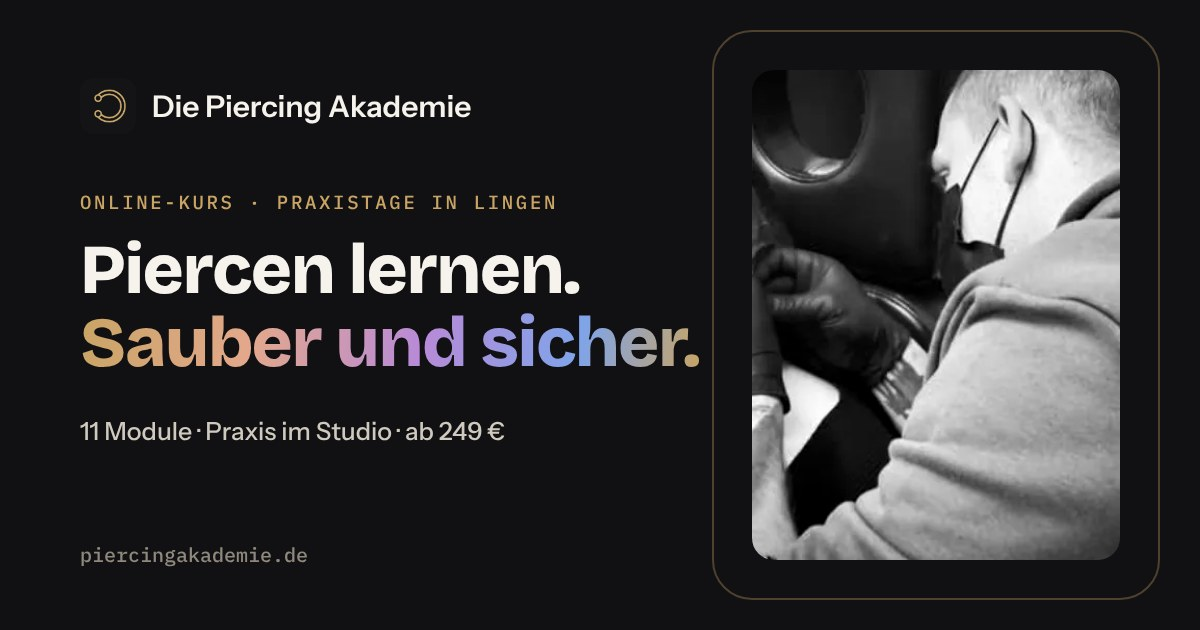
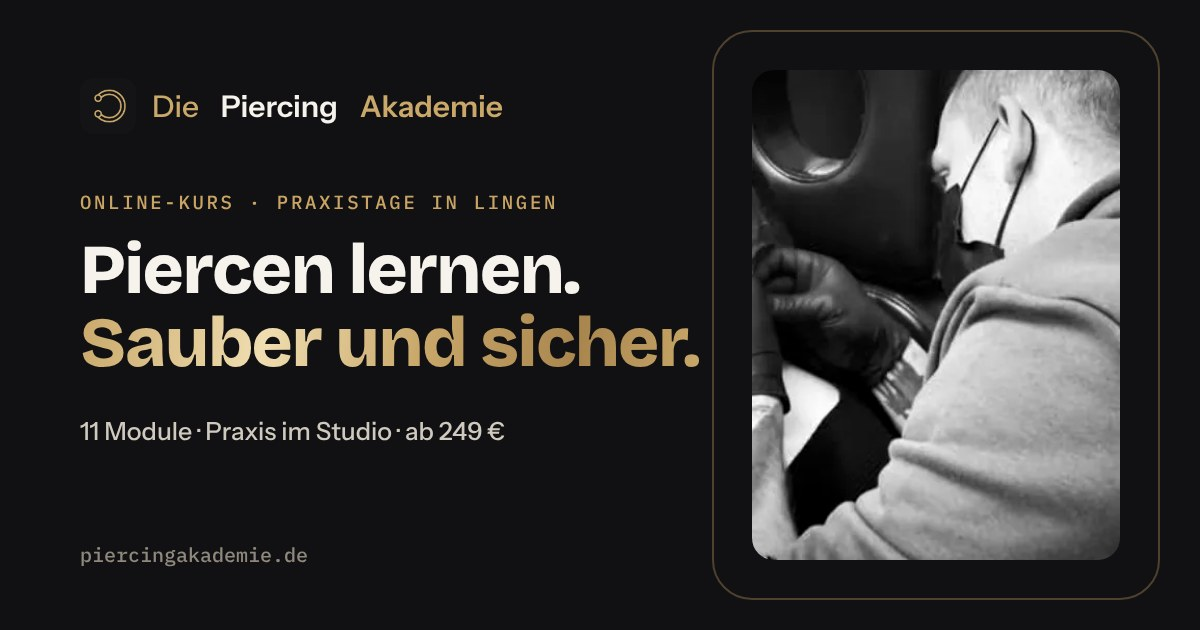
Nur noch Gold: bunten Farbverlauf entfernt, Schriftzug in Weiß und Gold
Der Verlauf „Titan“ (Ring am Hero-Foto, Überschrift, Linien, Rahmen,
Fortschrittsbalken) ist jetzt ein reiner Goldverlauf; blaue Lichtflecken
ebenfalls in Gold. Kopfzeile zeigt „Die Piercing Akademie“ mit „Die“ und
„Akademie“ in Gold wie im Auftakt-Schriftzug. Vorschaubild neu.

Claude-Session: https://claude.ai/code/session_01LfH8cq6D4HhundCD4VVHJz

Changed region(s): [[0.1233, 0.4825, 0.5858, 0.6032], [0.1233, 0.1508, 0.4317, 0.2111]]

diff --git a/assets/styles.css b/assets/styles.css
@@ -1,6 +1,6 @@
 /* Piercing Akademie – gemeinsames Stylesheet für alle Seiten.
    Gestaltung (Überarbeitung 25.10.2026): Schwarz, Elfenbein und Titan-Gold. Dunkle Bänder („Nacht“) für Einstieg,
-   Pakete und Anmeldung, helle Flächen für Inhalte. Der Farbverlauf „Titan“ erinnert an eloxiertes Titan und wird
+   Pakete und Anmeldung, helle Flächen für Inhalte. Der Farbverlauf „Titan“ ist ein reiner Goldverlauf (nur zwei Markenfarben: Anthrazit und Gold) und wird
    nur sparsam für Hervorhebungen genutzt. Kontraste: Text mindestens 4,5:1 (siehe PROJEKT-DOKUMENTATION.md). */
 
 /* Schriften: lokal eingebunden (kein Abruf bei Google, siehe datenschutz.html). Lizenz: SIL OFL 1.1, siehe fonts/LICENSE-*.txt */
@@ -31,7 +31,7 @@
   --night-muted:#A6A09A;
   --night-line:#2E2D33;
   --error:#A4231B;
-  --titan:linear-gradient(100deg,#C9A464 0%,#E3A88C 28%,#B88AD8 55%,#7FA4EA 80%,#C9A464 100%);
+  --titan:linear-gradient(100deg,#C9A86A 0%,#F0DDB0 30%,#C9A86A 55%,#A9864E 80%,#C9A86A 100%);
   --schatten:0 24px 48px -28px rgba(23,22,26,.45);
   --radius:14px;
   --f-display:"Bricolage Grotesque","Helvetica Neue",Arial,sans-serif;
@@ -105,6 +105,8 @@ header{display:flex;justify-content:space-between;align-items:center;gap:16px;pa
 .brand{font-family:var(--f-body);font-weight:600;font-size:1.2rem;text-decoration:none;display:flex;align-items:center;gap:10px;letter-spacing:-.01em}
 .brand img{width:36px;height:36px;border-radius:9px;display:block;box-shadow:0 0 0 1px rgba(201,168,106,.35)}
 .brand{white-space:nowrap}
+.brand .brand-die,.brand .brand-akz{color:var(--accent)}
+.brand .brand-die{font-weight:500}
 @media (max-width:420px){.brand{font-size:1.05rem;gap:8px}.brand img{width:32px;height:32px;border-radius:9px}}
 @media (max-width:350px){.brand{font-size:.92rem;gap:6px}.brand img{width:28px;height:28px;border-radius:8px}}
 nav{display:flex;gap:8px 24px;flex-wrap:wrap;align-items:center}
@@ -123,7 +125,7 @@ nav a[aria-current="page"]{color:var(--ink);font-weight:600}
   position:relative;isolation:isolate;
 }
 .nacht::before{content:"";position:absolute;inset:0;z-index:-1;pointer-events:none;
-  background:radial-gradient(60% 50% at 85% 10%,rgba(201,164,100,.16),transparent 70%),radial-gradient(40% 40% at 0% 100%,rgba(127,164,234,.10),transparent 70%)}
+  background:radial-gradient(60% 50% at 85% 10%,rgba(201,164,100,.16),transparent 70%),radial-gradient(40% 40% at 0% 100%,rgba(201,168,106,.06),transparent 70%)}
 .nacht nav a:hover{color:var(--ink)}
 
 /* Einstieg */
@@ -136,7 +138,7 @@ nav a[aria-current="page"]{color:var(--ink);font-weight:600}
 .hero-bild{position:relative;justify-self:end;width:min(100%,430px)}
 .hero-bild .foto{display:block;width:88%;margin-left:auto;aspect-ratio:354/473;object-fit:cover;border-radius:200px 200px var(--radius) var(--radius);filter:grayscale(1) contrast(1.05);
   border:1px solid transparent;background:var(--titan) border-box;padding:3px}
-.hero-bild .ring{position:absolute;z-index:1;right:0;top:18%;width:92px;height:92px;border-radius:50%;border:6px solid transparent;background:conic-gradient(from var(--winkel,0deg),#C9A464,#E3A88C,#B88AD8,#7FA4EA,#C9A464) border-box;-webkit-mask:linear-gradient(#000 0 0) padding-box exclude,linear-gradient(#000 0 0);mask:linear-gradient(#000 0 0) padding-box exclude,linear-gradient(#000 0 0)}
+.hero-bild .ring{position:absolute;z-index:1;right:0;top:18%;width:92px;height:92px;border-radius:50%;border:6px solid transparent;background:conic-gradient(from var(--winkel,0deg),#C9A86A,#F0DDB0,#A9864E,#E3C890,#C9A86A) border-box;-webkit-mask:linear-gradient(#000 0 0) padding-box exclude,linear-gradient(#000 0 0);mask:linear-gradient(#000 0 0) padding-box exclude,linear-gradient(#000 0 0)}
 .spec{background:var(--surface);border:1px solid var(--line);border-radius:var(--radius);padding:20px;box-shadow:var(--schatten)}
 .spec .label{display:flex;justify-content:space-between;gap:12px;flex-wrap:wrap}
 .spec .spec-title{font-family:var(--f-display);font-weight:600;line-height:1.08;margin:10px 0 4px;font-size:1.45rem}
@@ -216,7 +218,7 @@ details .body ul,details .body ol{margin:8px 0 0;padding-left:1.1em}
 .card{background:var(--surface);border:1px solid var(--line);border-radius:18px;padding:28px;display:flex;flex-direction:column;gap:18px;min-width:0;position:relative;
   transition:transform .35s cubic-bezier(.2,.7,.2,1),box-shadow .35s,border-color .35s}
 .card:hover{transform:translateY(-6px);box-shadow:0 30px 60px -30px rgba(0,0,0,.7)}
-.card.top{border:2px solid transparent;background:linear-gradient(var(--surface),var(--surface)) padding-box,conic-gradient(from var(--winkel,0deg),#C9A464,#E3A88C,#B88AD8,#7FA4EA,#C9A464) border-box}
+.card.top{border:2px solid transparent;background:linear-gradient(var(--surface),var(--surface)) padding-box,conic-gradient(from var(--winkel,0deg),#C9A86A,#F0DDB0,#A9864E,#E3C890,#C9A86A) border-box}
 .card .badge{position:absolute;top:-13px;left:28px;background:var(--gold);color:var(--gold-ink);font-family:var(--f-mono);font-size:.72rem;letter-spacing:.1em;text-transform:uppercase;padding:5px 12px;border-radius:999px;font-weight:500}
 .card h3{margin-top:6px;font-size:1.5rem}
 .card .price{font-family:var(--f-display);font-size:clamp(2.6rem,4vw,3.4rem);font-weight:800;line-height:1}
@@ -396,7 +398,7 @@ footer a{color:var(--muted)}
   .zahlen div:nth-child(3){padding-left:0}
   .zahlen div:nth-child(n+3){border-top:1px solid var(--line)}
   .weg{grid-template-columns:minmax(0,1fr);gap:28px}
-  .weg::before{left:27px;right:auto;top:28px;bottom:28px;width:2px;height:auto;background:linear-gradient(var(--gold),#7FA4EA);transform-origin:50% 0}
+  .weg::before{left:27px;right:auto;top:28px;bottom:28px;width:2px;height:auto;background:linear-gradient(var(--gold),#A9864E);transform-origin:50% 0}
   .weg li{padding:6px 0 0 76px;min-height:56px}
   .gal{grid-template-columns:repeat(2,minmax(0,1fr))}
   .pk{gap:28px}
@@ -583,7 +585,7 @@ footer nav[aria-label="Instagram"] a{color:var(--accent)}
 .auftakt-vorhang{position:absolute;left:0;right:0;height:50.5%;background:#0E0E11;transition:transform 1s cubic-bezier(.77,0,.18,1)}
 .auftakt-vorhang.oben{top:0}.auftakt-vorhang.unten{bottom:0}
 .auftakt-vorhang.oben::after{content:"";position:absolute;inset:0;background:radial-gradient(60% 80% at 50% 100%,rgba(201,164,100,.10),transparent 70%)}
-.auftakt-vorhang.unten::after{content:"";position:absolute;inset:0;background:radial-gradient(60% 80% at 50% 0%,rgba(127,164,234,.08),transparent 70%)}
+.auftakt-vorhang.unten::after{content:"";position:absolute;inset:0;background:radial-gradient(60% 80% at 50% 0%,rgba(201,168,106,.06),transparent 70%)}
 .auftakt-buehne{position:relative;display:grid;justify-items:center;gap:22px;transition:transform .9s cubic-bezier(.7,0,.2,1),opacity .6s ease}
 .auftakt-ring{overflow:visible;filter:drop-shadow(0 0 14px rgba(201,168,106,.18));animation:auftaktGlimmen 1.4s 1.3s ease-in-out both}
 @keyframes auftaktGlimmen{0%{filter:drop-shadow(0 0 8px rgba(201,168,106,.15))}50%{filter:drop-shadow(0 0 26px rgba(201,168,106,.4))}100%{filter:drop-shadow(0 0 14px rgba(201,168,106,.22))}}

diff --git a/kurs-prototyp/index.html b/kurs-prototyp/index.html
@@ -17,7 +17,7 @@
 <p class="k-banner" data-tr>Prototyp des Online-Kurses. Kein Login, keine Bezahlung; der Fortschritt wird nur in diesem Browser gespeichert. Inhalte nach dem Kursbuch „Die Piercing Akademie – Dein Weg zum Bodypiercer“.</p>
 <div class="wrap">
   <header>
-    <a class="brand" href="../index.html" data-website><img src="../assets/favicon.png" alt="" width="34" height="34">Die Piercing Akademie</a>
+    <a class="brand" href="../index.html" data-website><img src="../assets/favicon.png" alt="" width="34" height="34"><span class="brand-die">Die</span> Piercing <span class="brand-akz">Akademie</span></a>
     <nav aria-label="Seitennavigation" data-tr-aria>
       <a href="../online-kurs.html" data-website data-tr>Über den Online-Kurs</a>
       <a href="#uebersicht" data-tr>Kursübersicht</a>

diff --git a/en/online-kurs.html b/en/online-kurs.html
@@ -32,7 +32,7 @@
 <div class="nacht">
 <div class="wrap">
   <header>
-    <a class="brand" href="index.html"><img src="../assets/favicon.png" alt="" width="34" height="34">Die Piercing Akademie</a>
+    <a class="brand" href="index.html"><img src="../assets/favicon.png" alt="" width="34" height="34"><span class="brand-die">Die</span> Piercing <span class="brand-akz">Akademie</span></a>
     <nav aria-label="Site navigation">
       <a href="index.html#kurs">Course content</a>
       <a href="online-kurs.html" aria-current="page">Online course</a>

diff --git a/es/online-kurs.html b/es/online-kurs.html
@@ -32,7 +32,7 @@
 <div class="nacht">
 <div class="wrap">
   <header>
-    <a class="brand" href="index.html"><img src="../assets/favicon.png" alt="" width="34" height="34">Die Piercing Akademie</a>
+    <a class="brand" href="index.html"><img src="../assets/favicon.png" alt="" width="34" height="34"><span class="brand-die">Die</span> Piercing <span class="brand-akz">Akademie</span></a>
     <nav aria-label="Navegación del sitio">
       <a href="index.html#kurs">Contenido</a>
       <a href="online-kurs.html" aria-current="page">Curso online</a>

diff --git a/online-kurs.html b/online-kurs.html
@@ -32,7 +32,7 @@
 <div class="nacht">
 <div class="wrap">
   <header>
-    <a class="brand" href="index.html"><img src="assets/favicon.png" alt="" width="34" height="34">Die Piercing Akademie</a>
+    <a class="brand" href="index.html"><img src="assets/favicon.png" alt="" width="34" height="34"><span class="brand-die">Die</span> Piercing <span class="brand-akz">Akademie</span></a>
     <nav aria-label="Seitennavigation">
       <a href="index.html#kurs">Kursinhalt</a>
       <a href="online-kurs.html" aria-current="page">Online-Kurs</a>

diff --git a/en/agb.html b/en/agb.html
@@ -26,7 +26,7 @@
 <div class="nacht">
 <div class="wrap">
   <header>
-    <a class="brand" href="index.html"><img src="../assets/favicon.png" alt="" width="34" height="34">Die Piercing Akademie</a>
+    <a class="brand" href="index.html"><img src="../assets/favicon.png" alt="" width="34" height="34"><span class="brand-die">Die</span> Piercing <span class="brand-akz">Akademie</span></a>
     <nav aria-label="Site navigation">
       <a href="index.html#kurs">Course content</a>
       <a href="online-kurs.html">Online course</a>

diff --git a/en/bestellen.html b/en/bestellen.html
@@ -27,7 +27,7 @@
 <div class="nacht">
 <div class="wrap">
   <header>
-    <a class="brand" href="index.html"><img src="../assets/favicon.png" alt="" width="34" height="34">Die Piercing Akademie</a>
+    <a class="brand" href="index.html"><img src="../assets/favicon.png" alt="" width="34" height="34"><span class="brand-die">Die</span> Piercing <span class="brand-akz">Akademie</span></a>
     <nav aria-label="Site navigation">
       <a href="index.html#kurs">Course content</a>
       <a href="online-kurs.html">Online course</a>

diff --git a/en/danke.html b/en/danke.html
@@ -27,7 +27,7 @@
 <div class="nacht">
 <div class="wrap">
   <header>
-    <a class="brand" href="index.html"><img src="../assets/favicon.png" alt="" width="34" height="34">Die Piercing Akademie</a>
+    <a class="brand" href="index.html"><img src="../assets/favicon.png" alt="" width="34" height="34"><span class="brand-die">Die</span> Piercing <span class="brand-akz">Akademie</span></a>
     <nav aria-label="Site navigation">
       <a href="index.html#kurs">Course content</a>
       <a href="online-kurs.html">Online course</a>

diff --git a/en/datenschutz.html b/en/datenschutz.html
@@ -26,7 +26,7 @@
 <div class="nacht">
 <div class="wrap">
   <header>
-    <a class="brand" href="index.html"><img src="../assets/favicon.png" alt="" width="34" height="34">Die Piercing Akademie</a>
+    <a class="brand" href="index.html"><img src="../assets/favicon.png" alt="" width="34" height="34"><span class="brand-die">Die</span> Piercing <span class="brand-akz">Akademie</span></a>
     <nav aria-label="Site navigation">
       <a href="index.html#kurs">Course content</a>
       <a href="online-kurs.html">Online course</a>

diff --git a/en/impressum.html b/en/impressum.html
@@ -26,7 +26,7 @@
 <div class="nacht">
 <div class="wrap">
   <header>
-    <a class="brand" href="index.html"><img src="../assets/favicon.png" alt="" width="34" height="34">Die Piercing Akademie</a>
+    <a class="brand" href="index.html"><img src="../assets/favicon.png" alt="" width="34" height="34"><span class="brand-die">Die</span> Piercing <span class="brand-akz">Akademie</span></a>
     <nav aria-label="Site navigation">
       <a href="index.html#kurs">Course content</a>
       <a href="online-kurs.html">Online course</a>

diff --git a/en/widerrufen.html b/en/widerrufen.html
@@ -27,7 +27,7 @@
 <div class="nacht">
 <div class="wrap">
   <header>
-    <a class="brand" href="index.html"><img src="../assets/favicon.png" alt="" width="34" height="34">Die Piercing Akademie</a>
+    <a class="brand" href="index.html"><img src="../assets/favicon.png" alt="" width="34" height="34"><span class="brand-die">Die</span> Piercing <span class="brand-akz">Akademie</span></a>
     <nav aria-label="Site navigation">
       <a href="index.html#kurs">Course content</a>
       <a href="online-kurs.html">Online course</a>

diff --git a/es/agb.html b/es/agb.html
@@ -26,7 +26,7 @@
 <div class="nacht">
 <div class="wrap">
   <header>
-    <a class="brand" href="index.html"><img src="../assets/favicon.png" alt="" width="34" height="34">Die Piercing Akademie</a>
+    <a class="brand" href="index.html"><img src="../assets/favicon.png" alt="" width="34" height="34"><span class="brand-die">Die</span> Piercing <span class="brand-akz">Akademie</span></a>
     <nav aria-label="Navegación del sitio">
       <a href="index.html#kurs">Contenido</a>
       <a href="online-kurs.html">Curso online</a>
